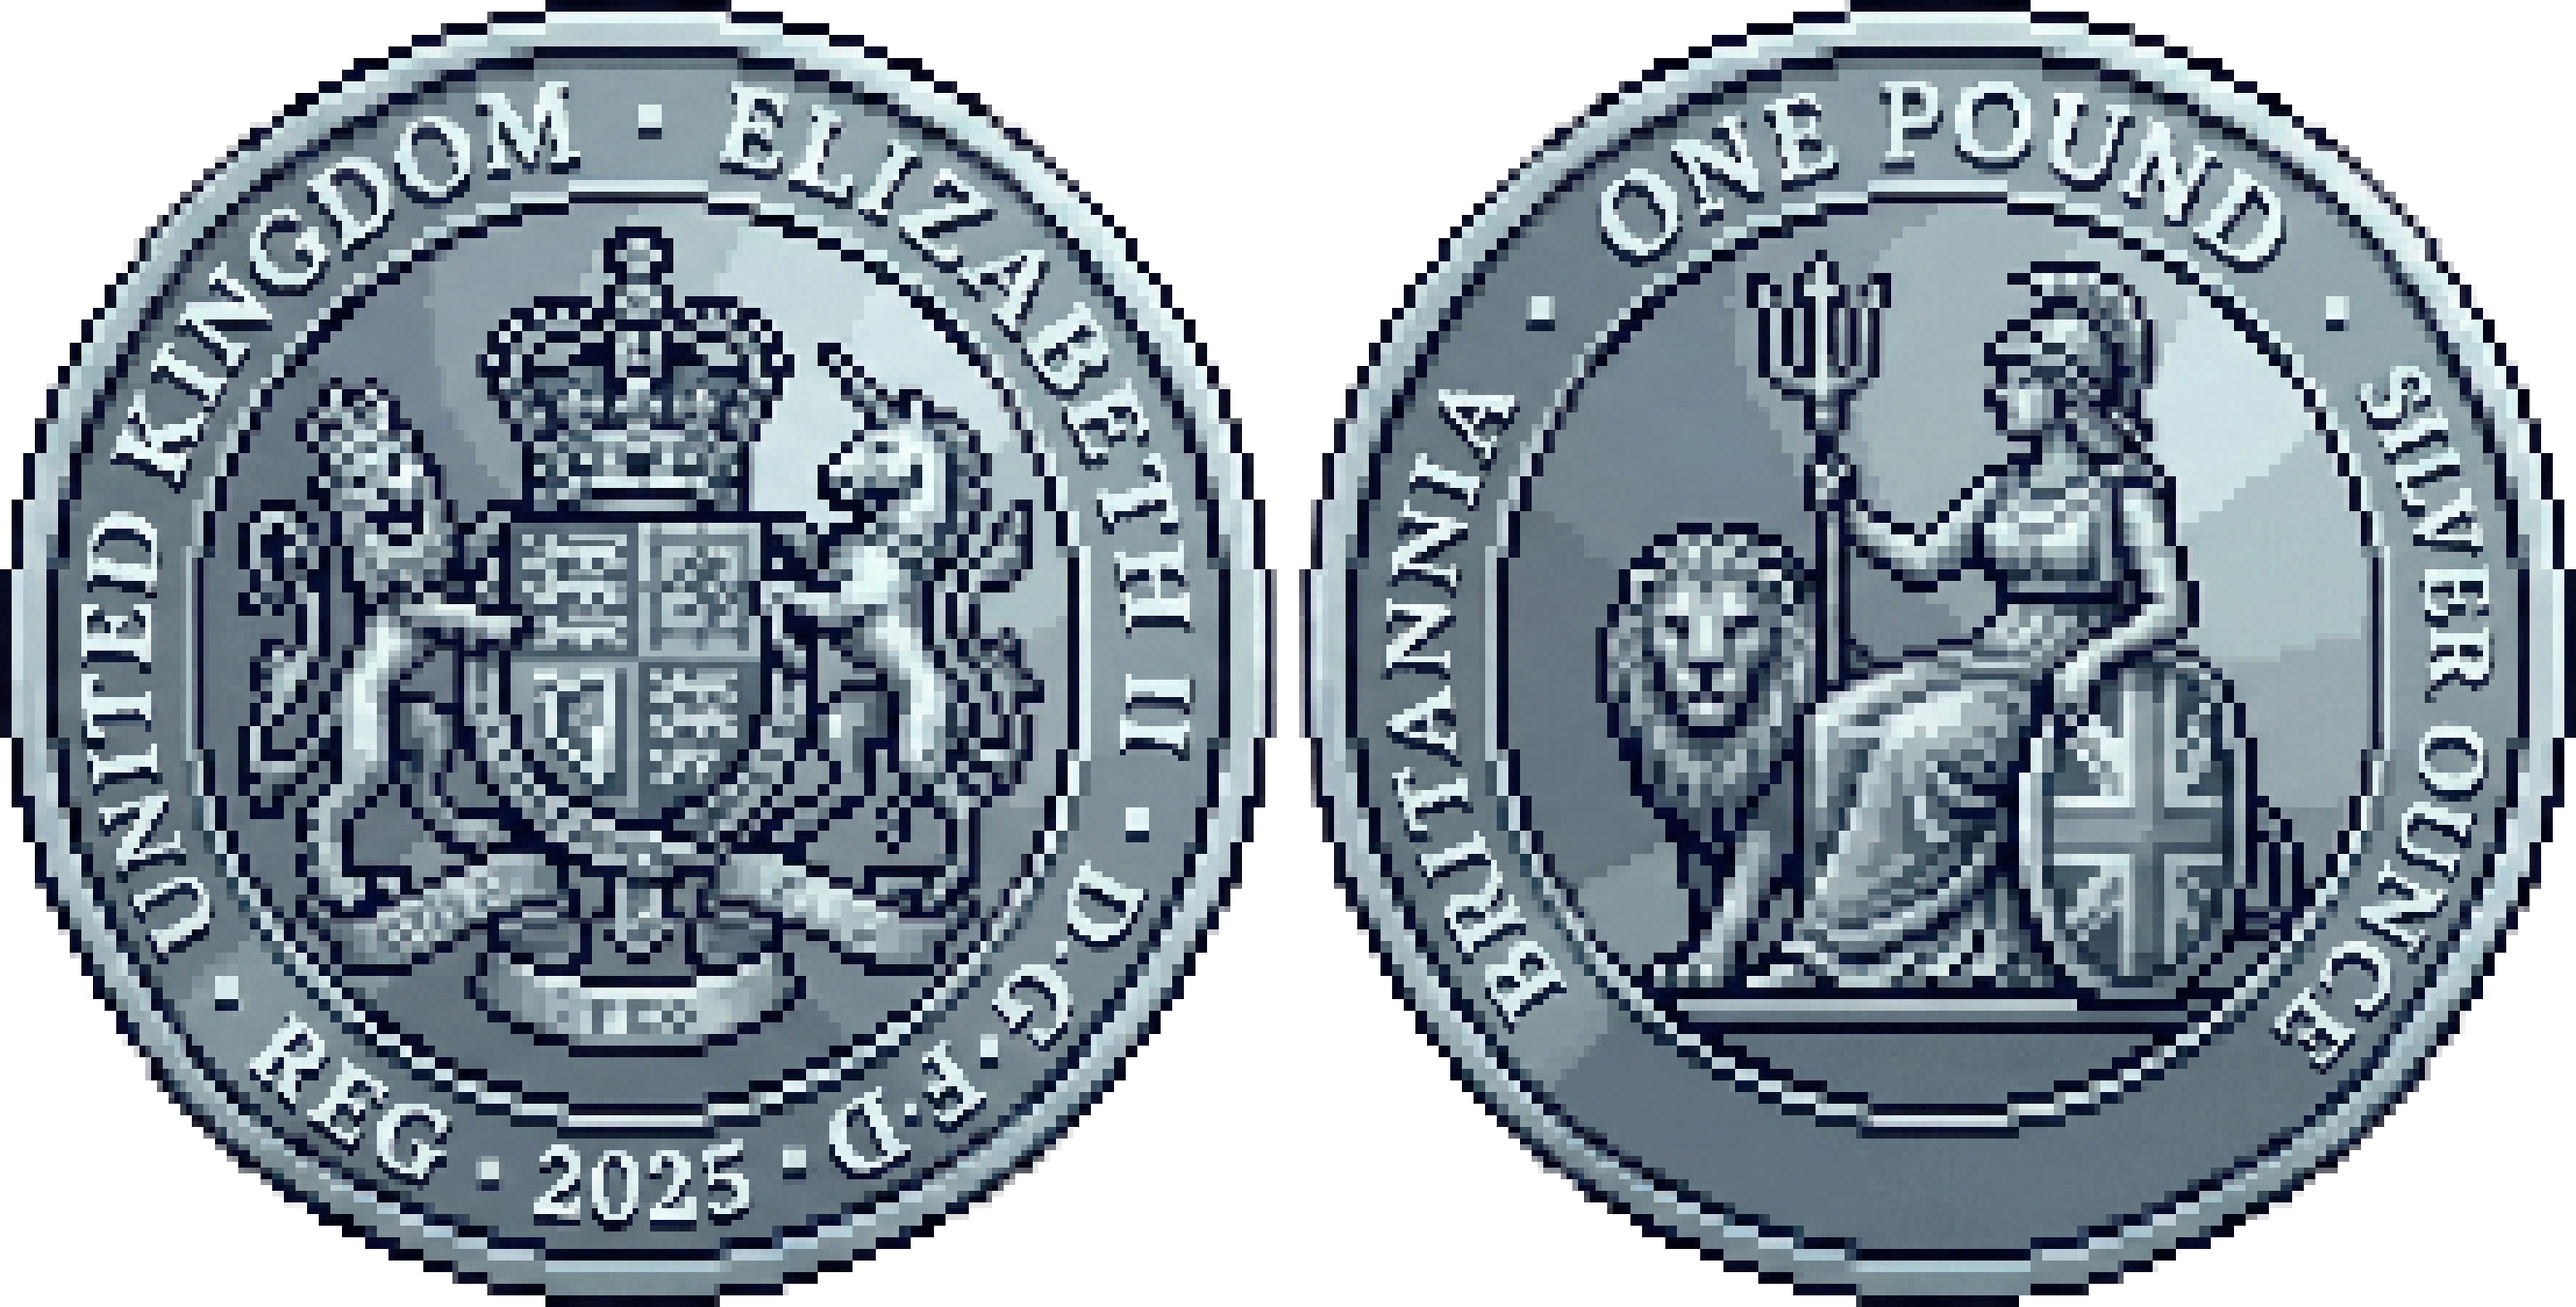
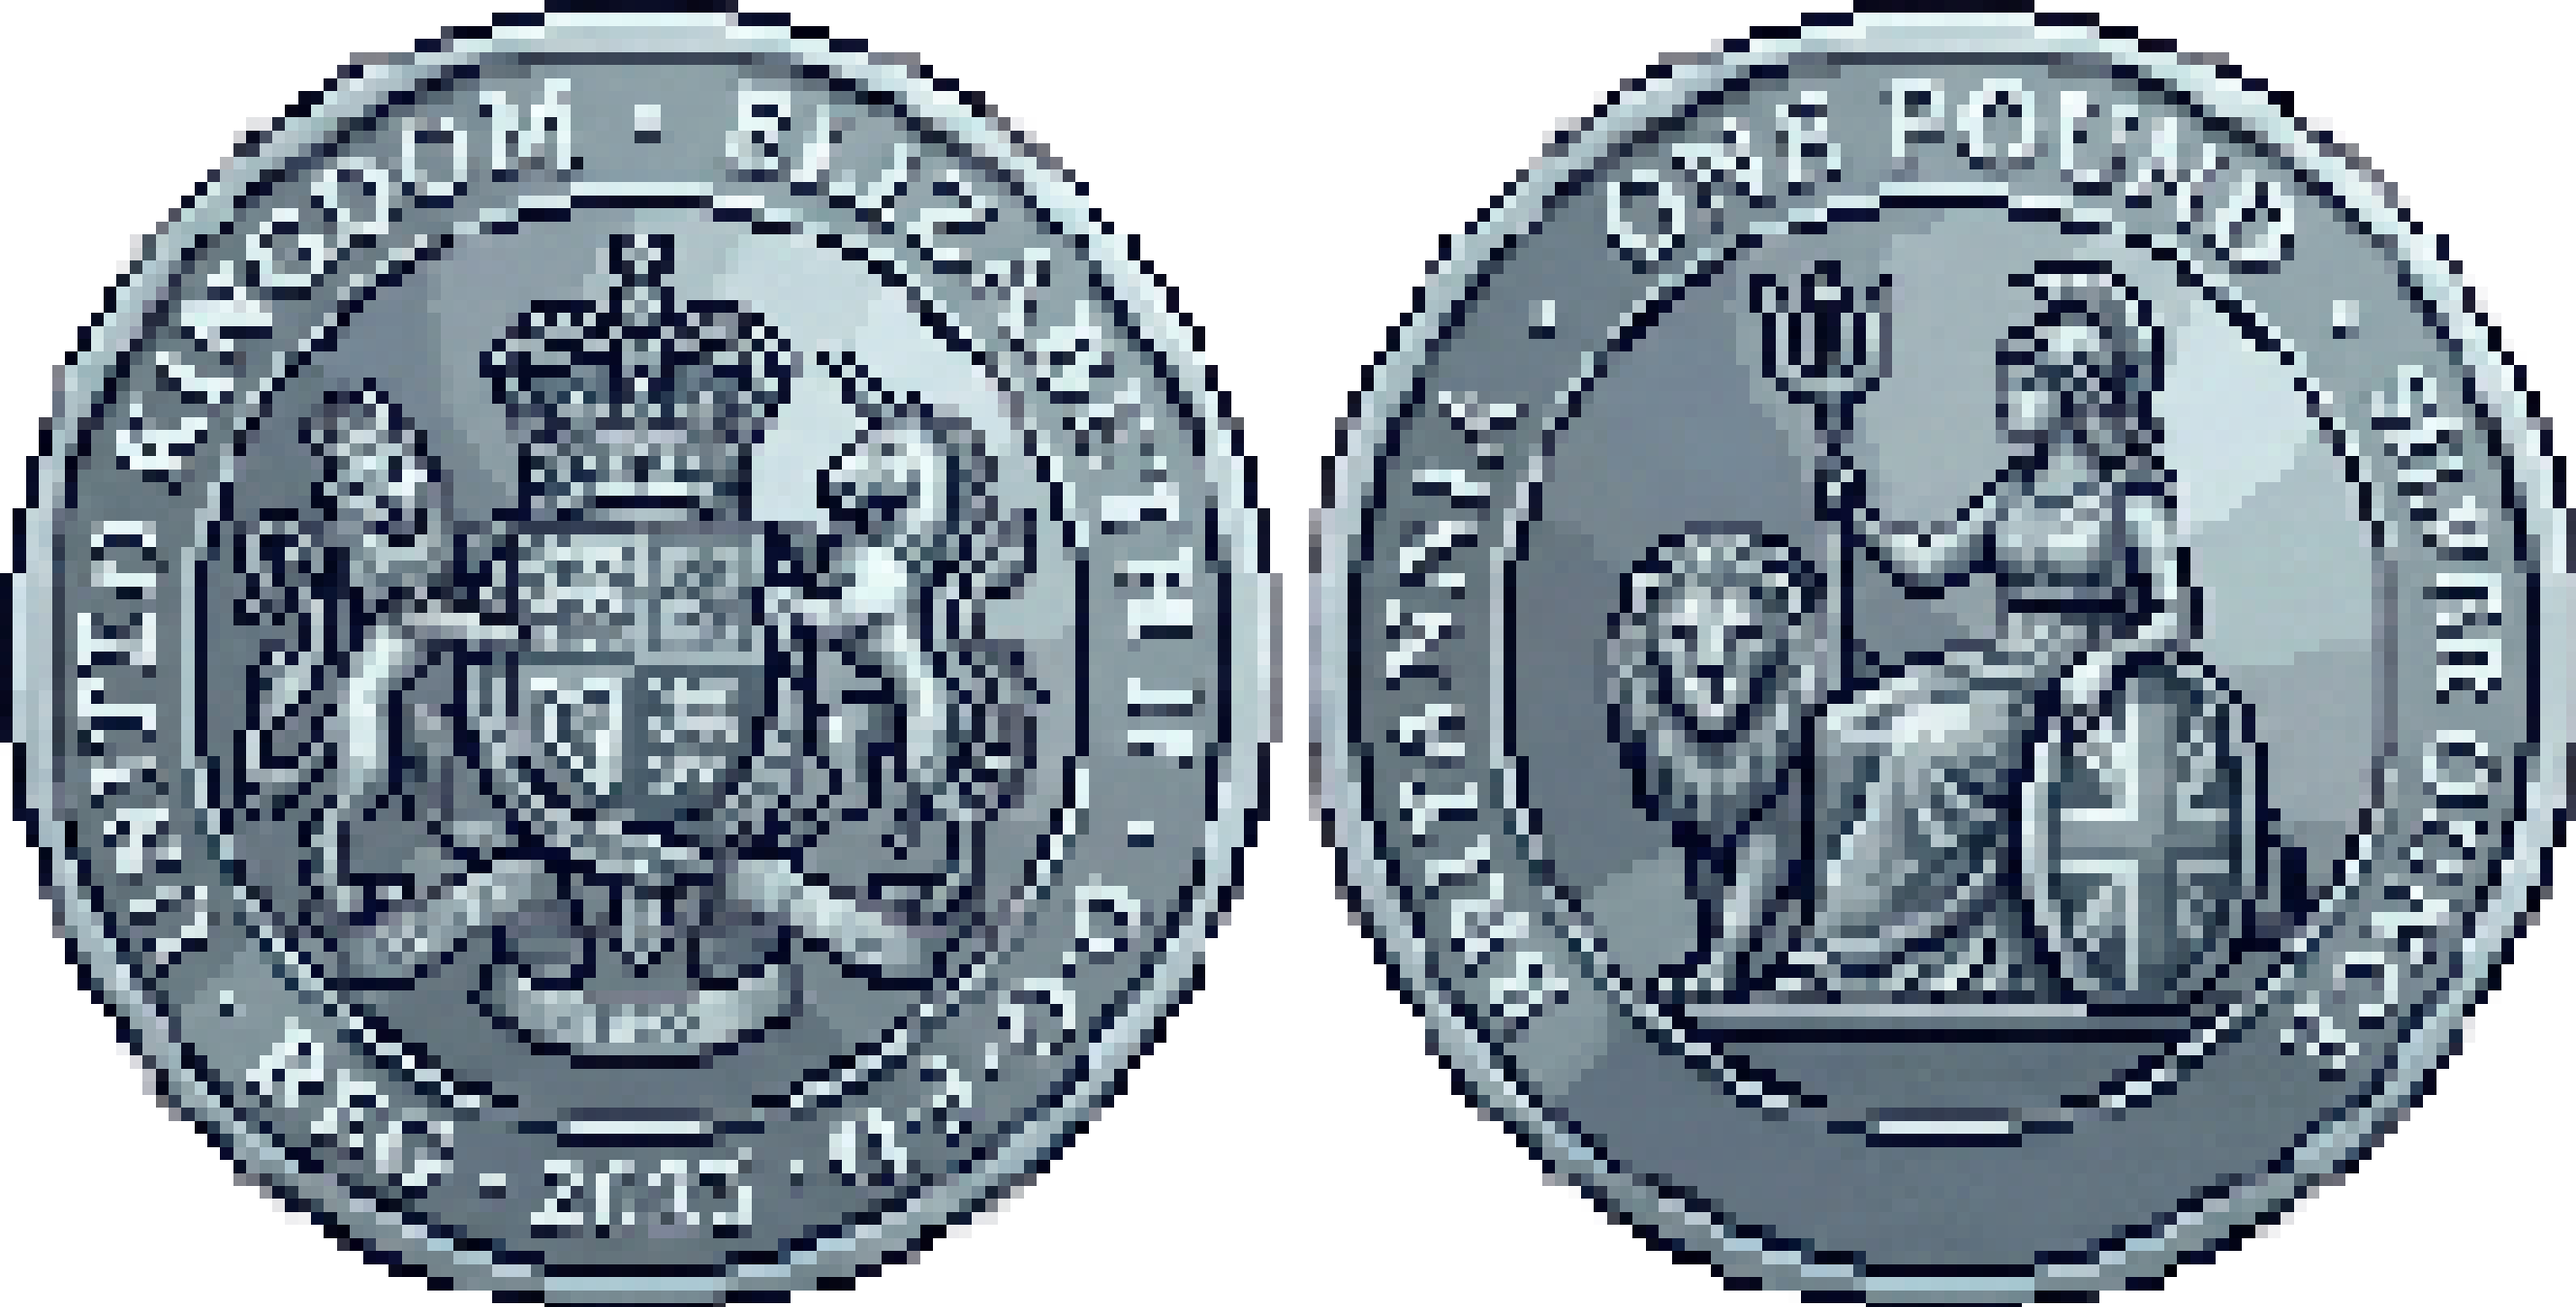
Refactor code structure for improved readability and maintainability

diff --git a/src/ofApp.cpp b/src/ofApp.cpp
@@ -198,7 +198,9 @@ void ofApp::setup() {
 	ofLoadImage(d20Texture, "Dice/D20/d20_diffuse.png");
 
 	ofLoadImage(coinFacesTexture, "Dice/Coin/CoinUKSilver.png");
-	coinFacesTexture.setTextureMinMagFilter(GL_NEAREST, GL_NEAREST);
+	// Use linear filtering and mipmaps for a smooth coin appearance
+	coinFacesTexture.generateMipmap();
+	coinFacesTexture.setTextureMinMagFilter(GL_LINEAR_MIPMAP_LINEAR, GL_LINEAR);
 
 	// --- 5. SOUNDS ---
 	// Note: Path points to Sounds/Player/
@@ -393,10 +395,9 @@ void ofApp::setup() {
 	modelMaterial.setDiffuseColor(ofColor(255, 255, 255));
 	modelMaterial.setAmbientColor(ofColor(255, 255, 255));
 
-	// 1. GLOBAL AMBIENT (Brightness Fix)
-	// Was (60, 60, 80). Changed to (100, 100, 100).
-	// This is a neutral grey (no purple tint) and significantly brighter.
-	ofSetGlobalAmbientColor(ofColor(70, 70, 70));
+	// 1. GLOBAL AMBIENT
+	// Make the ambient slightly darker so the board isn't too bright
+	ofSetGlobalAmbientColor(ofColor(50, 50, 50));
 
 	lights.clear();
 
@@ -1131,15 +1132,16 @@ void ofApp::updateGame() {
 
 	// --- TORCH FLICKER LOGIC (SLOWER) ---
 	float time = ofGetElapsedTimef();
-	float flicker = ofNoise(time * 3.0f); // Speed
+	// Lower the noise frequency so flicker is slower and less frantic
+	float flicker = ofNoise(time * 0.6f); // Slower speed
 
 	// 2. Intensity Mapping
 	// Map noise to a safe range (0.8 to 1.3)
 	float intensity = ofMap(flicker, 0, 1, 0.8f, 1.3f);
 
 	// 3. Position Wiggle (Slow sway)
-	float wiggleX = ofNoise(time * 1.0f, 0) * 15.0f - 7.5f;
-	float wiggleY = ofNoise(time * 1.0f, 100) * 10.0f - 5.0f;
+	float wiggleX = ofNoise(time * 0.4f, 0) * 15.0f - 7.5f;
+	float wiggleY = ofNoise(time * 0.4f, 100) * 10.0f - 5.0f;
 
 	// 4. Apply Color
 	// Base color is a warm orange/yellow.
